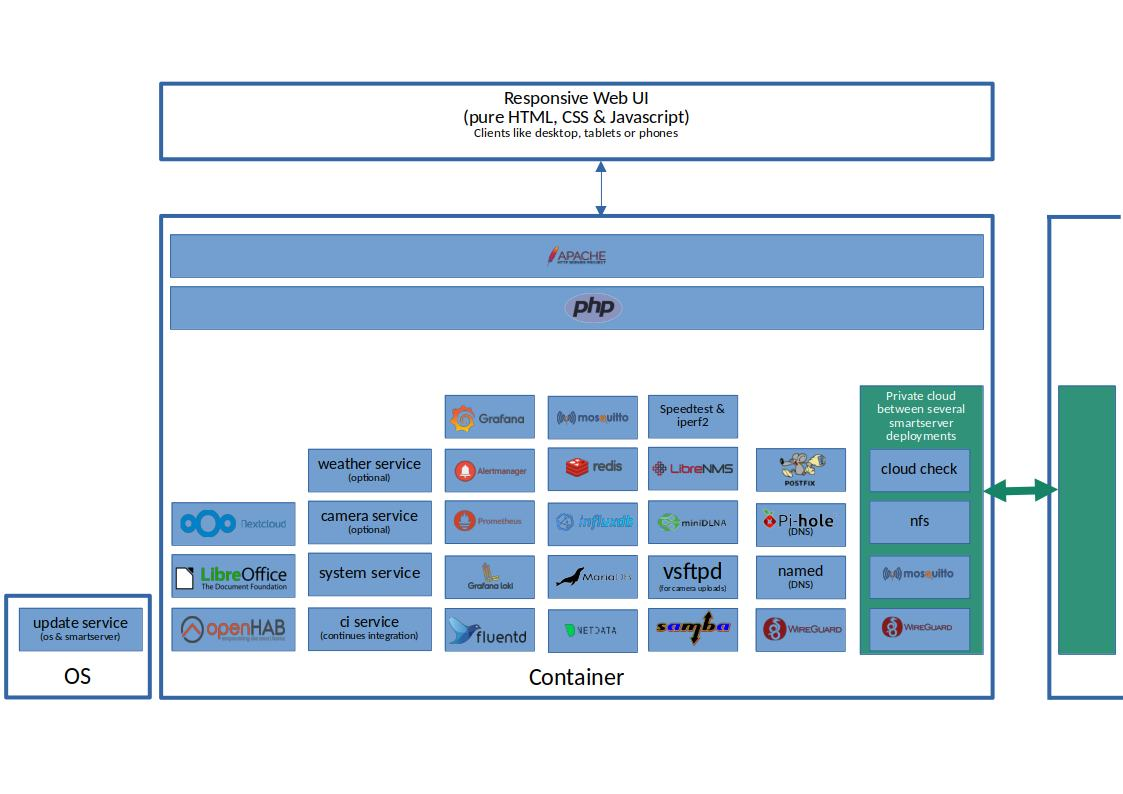
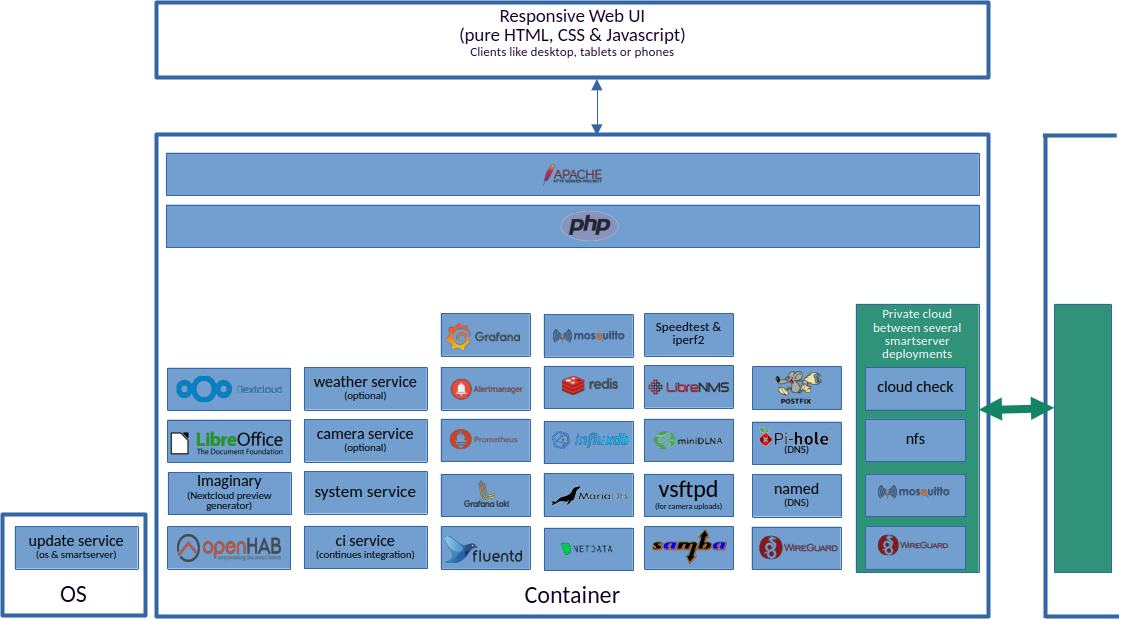
add imaginary as nextcloud preview generator

diff --git a/roles/nextcloud/templates/config.php b/roles/nextcloud/templates/config.php
@@ -10,8 +10,6 @@ $CONFIG = array (
     3 => 'fa-nextcloud.{{server_domain}}',
     4 => 'ba-nextcloud.{{server_domain}}'
   ),
-  'preview_max_x' => '2048',
-  'preview_max_y' => '2048',
   'allow_local_remote_servers' => true,
   'auth.bruteforce.protection.enabled' => false,
   'overwrite.cli.url' => 'https://nextcloud.{{server_domain}}/',
@@ -40,13 +38,31 @@ $CONFIG = array (
   'trashbin_retention_obligation' => 'auto',
   'updatechecker' => false,
   'appstore.experimental.enabled' => true,
+  'enable_previews' => true,
   'enabledPreviewProviders' => array (
-    'OC\Preview\Movie',
-    'OC\Preview\Image',
-    'OC\Preview\TXT',
-    'OC\Preview\SVG',
-    'OC\Preview\Bitmap',
+#    0  => 'OC\\Preview\\PNG',
+#    1  => 'OC\\Preview\\JPEG',
+#    2  => 'OC\\Preview\\GIF',
+#    3  => 'OC\\Preview\\HEIC',
+#    4  => 'OC\\Preview\\BMP',
+#    5  => 'OC\\Preview\\XBitmap',
+#    6  => 'OC\\Preview\\SVG',
+#    13 => 'OC\\Preview\\PDF',
+    0  => 'OC\\Preview\\TXT',
+    1  => 'OC\\Preview\\MarkDown',
+    2  => 'OC\\Preview\\Movie',
+    3 => 'OC\\Preview\\MKV',
+    4 => 'OC\\Preview\\MP4',
+    5 => 'OC\\Preview\\AVI',
+    6 => 'OC\\Preview\\Imaginary',
+    7 => 'OC\\Preview\\ImaginaryPDF'
   ),
+  'preview_imaginary_url' => 'http://imaginary:9000',
+  'preview_max_x' => '2048',
+  'preview_max_y' => '2048',
+  'preview_max_scale_factor' => 1,
+  'preview_concurrency_all' => 8,
+  'preview_concurrency_new' => 4,
   'filesystem_check_changes' => 1,
   'filelocking.enabled' => true,
   'memcache.local' => '\\OC\\Memcache\\APCu',
